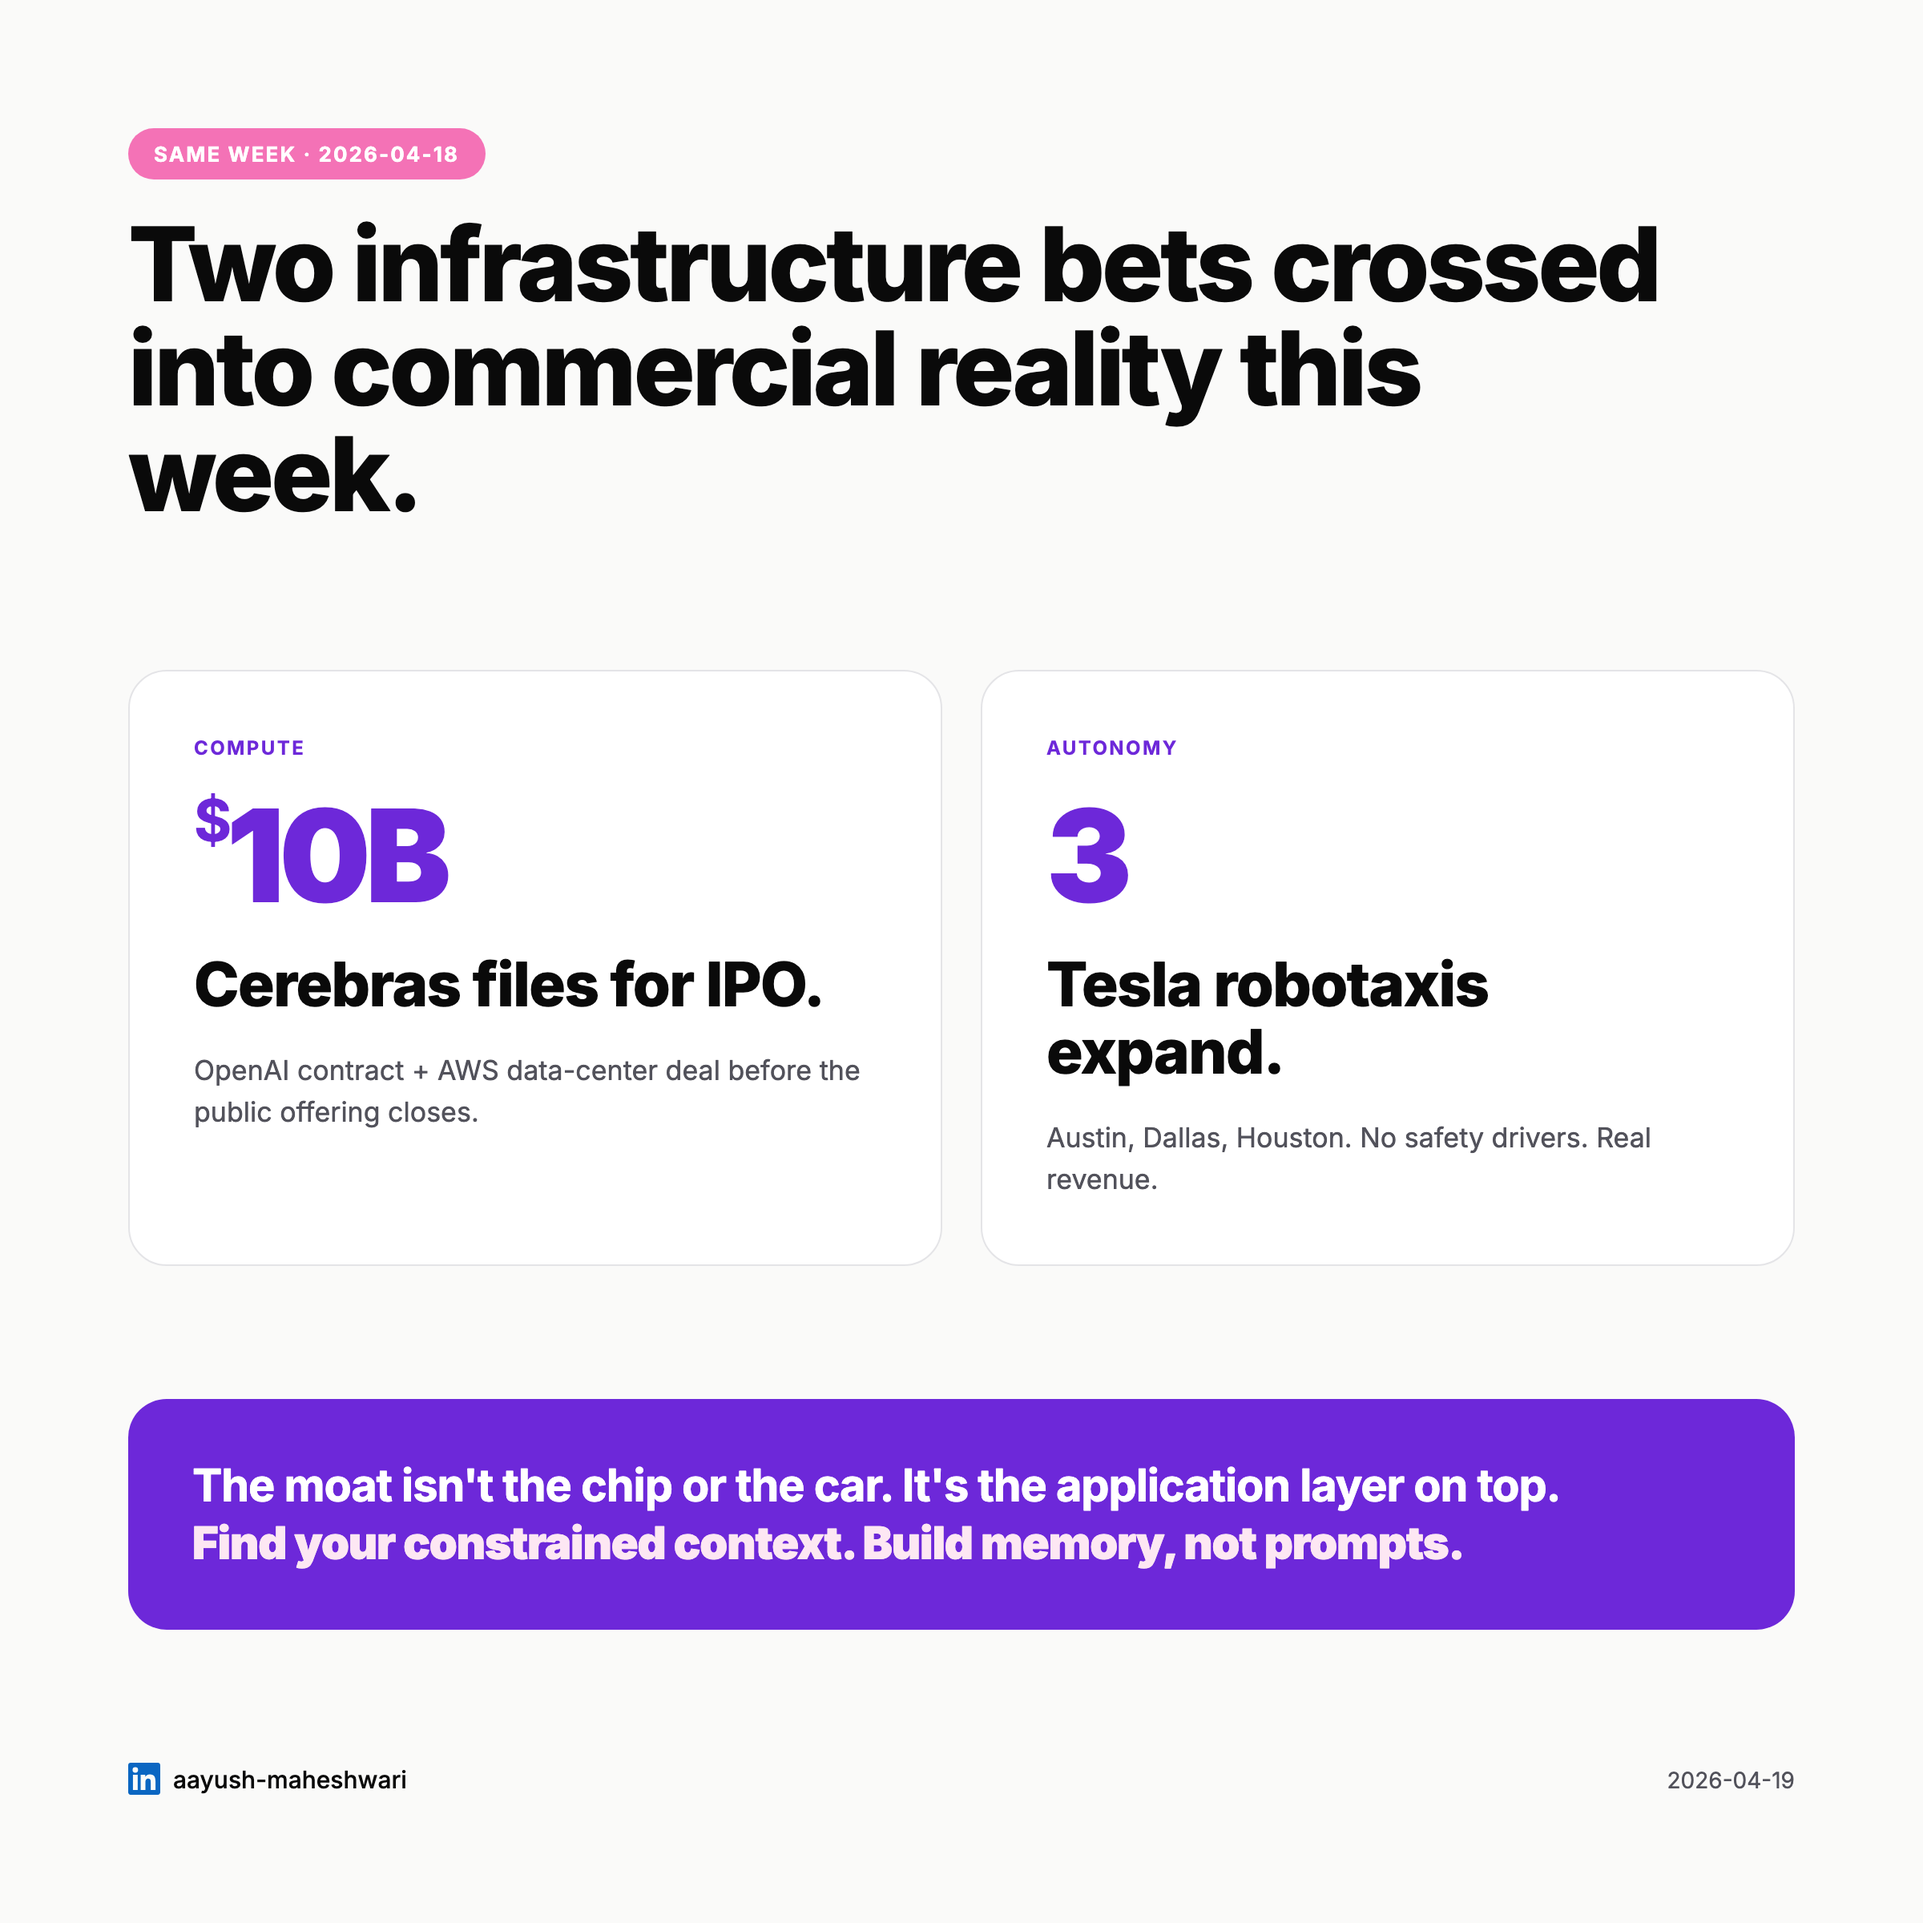
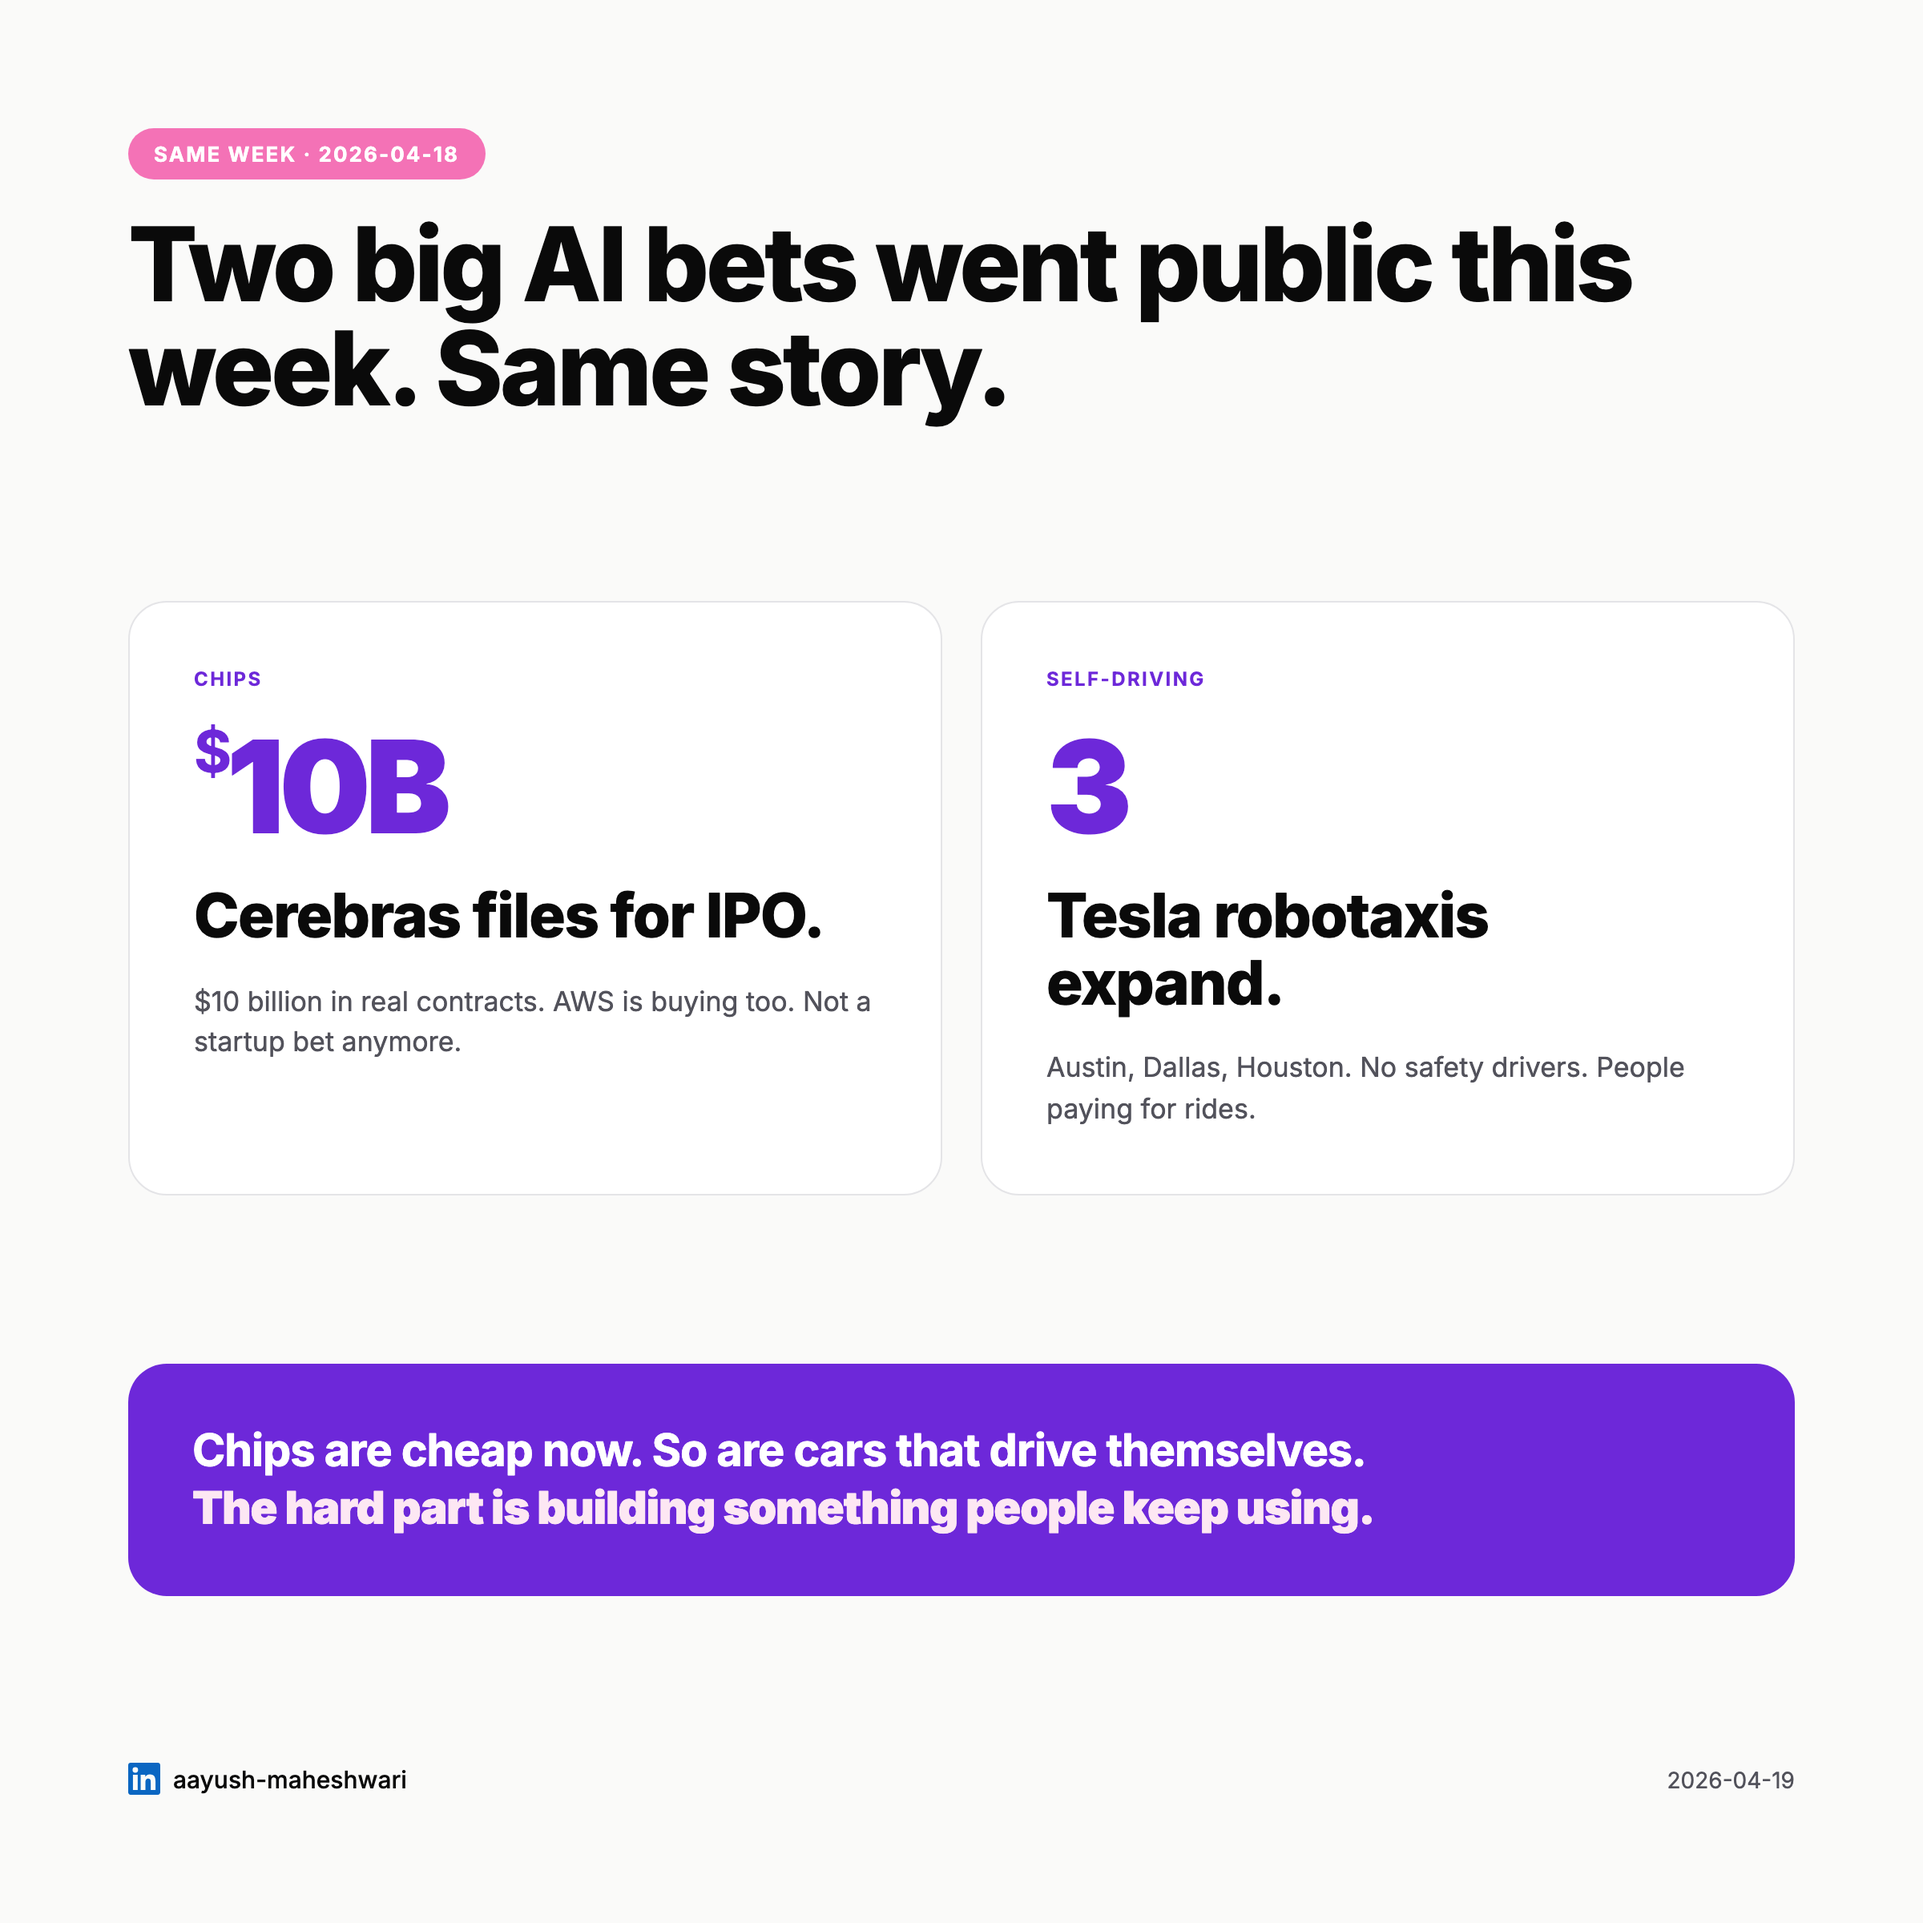
creatives: plain-English copy rewrite + wire rules into design-council
Today's 5 options still leaned on the exact MBA vocabulary we just banned in the brief (commodity, moat, application layer, commoditizes, constrained context, competitive advantage). Creatives should pass the same 5th-grade test as the brief. Rewrote all 5:

Option 1 — The Take:
  old hero: "AI isn't your competitive advantage. It's a commodity."
  new hero: "Chips are cheap now. Your product isn't."
  body: "The hard part isn't the chip. It isn't the model. It's building something people come back to. Memory. Context. The thing they actually use."

Option 2 — Same Week:
  old headline: "Two infrastructure bets crossed into commercial reality this week."
  new headline: "Two big AI bets went public this week. Same story."
  panel labels: COMPUTE/AUTONOMY → CHIPS/SELF-DRIVING
  sub-claim: "The moat isn't the chip or the car. It's the application layer on top." →
             "Chips are cheap now. So are cars that drive themselves. The hard part is building something people keep using."

Option 3 — The Shift:
  headline: "When the layer below you commoditizes, the moat moves up." →
            "When the thing below you gets cheap, the real work moves up."
  layer titles rewritten: "Compute" → "Anyone can buy them now"; "Models" → "Opus 4.7 shipped in weeks"; "Autonomy in constrained contexts" → "Works in small, named places"
  moat label: "where the moat lives now" → "where the real work is now"
[…]

diff --git a/creatives/2026-04-19/option-3-the-stack.html b/creatives/2026-04-19/option-3-the-stack.html
@@ -79,35 +79,35 @@
 </style>
 </head>
 <body>
-  <span class="chip">The stack · 2026</span>
-  <h1>When the layer below you commoditizes, the moat moves up.</h1>
+  <span class="chip">The shift · 2026</span>
+  <h1>When the thing below you gets cheap, the real work moves up.</h1>
   <div class="stack">
     <div class="layer commodity">
       <div class="layer-left">
-        <span class="layer-label">Layer 1</span>
-        <span class="layer-title">Compute</span>
+        <span class="layer-label">Chips</span>
+        <span class="layer-title">Anyone can buy them now</span>
       </div>
-      <span class="layer-tag">Commodity · Cerebras IPO</span>
+      <span class="layer-tag">Cerebras IPO</span>
     </div>
     <div class="layer commodity">
       <div class="layer-left">
-        <span class="layer-label">Layer 2</span>
-        <span class="layer-title">Models</span>
+        <span class="layer-label">Models</span>
+        <span class="layer-title">Opus 4.7 shipped in weeks</span>
       </div>
-      <span class="layer-tag">Commodity · Opus 4.7 in weeks</span>
+      <span class="layer-tag">Generic now</span>
     </div>
     <div class="layer commodity">
       <div class="layer-left">
-        <span class="layer-label">Layer 3</span>
-        <span class="layer-title">Autonomy in constrained contexts</span>
+        <span class="layer-label">Self-driving</span>
+        <span class="layer-title">Works in small, named places</span>
       </div>
-      <span class="layer-tag">Commodity · Tesla in 3 cities</span>
+      <span class="layer-tag">Tesla in 3 cities</span>
     </div>
     <div class="layer moat">
       <div>
-        <span class="layer-label">Layer 4 · where the moat lives now</span>
-        <div class="layer-title">Memory · Context · Application layer</div>
-        <p class="moat-detail">Most AI products fail because they skip memory, not because of the model.</p>
+        <span class="layer-label">Where the real work is now</span>
+        <div class="layer-title">Memory · Context · Product</div>
+        <p class="moat-detail">Most AI products fail because they forget. Not because the model is weak.</p>
       </div>
     </div>
   </div>

diff --git a/creatives/2026-04-19/option-2-same-week.html b/creatives/2026-04-19/option-2-same-week.html
@@ -75,25 +75,25 @@
 <body>
   <header>
     <span class="chip">Same week · 2026-04-18</span>
-    <h1>Two infrastructure bets crossed into commercial reality this week.</h1>
+    <h1>Two big AI bets went public this week. Same story.</h1>
   </header>
   <div class="panels">
     <div class="panel">
-      <div class="panel-label">Compute</div>
+      <div class="panel-label">Chips</div>
       <div class="panel-number"><small>$</small>10B</div>
       <div class="panel-headline">Cerebras files for IPO.</div>
-      <p class="panel-detail">OpenAI contract + AWS data-center deal before the public offering closes.</p>
+      <p class="panel-detail">$10 billion in real contracts. AWS is buying too. Not a startup bet anymore.</p>
     </div>
     <div class="panel">
-      <div class="panel-label">Autonomy</div>
+      <div class="panel-label">Self-driving</div>
       <div class="panel-number">3</div>
       <div class="panel-headline">Tesla robotaxis expand.</div>
-      <p class="panel-detail">Austin, Dallas, Houston. No safety drivers. Real revenue.</p>
+      <p class="panel-detail">Austin, Dallas, Houston. No safety drivers. People paying for rides.</p>
     </div>
   </div>
   <div class="sub-claim">
-    The moat isn't the chip or the car. It's the application layer on top.
-    <br><strong>Find your constrained context. Build memory, not prompts.</strong>
+    Chips are cheap now. So are cars that drive themselves.
+    <br><strong>The hard part is building something people keep using.</strong>
   </div>
   <div class="footer">
     <span class="handle">

diff --git a/creatives/2026-04-19/option-5-find-your-texas.html b/creatives/2026-04-19/option-5-find-your-texas.html
@@ -69,11 +69,11 @@
 </head>
 <body>
   <div>
-    <span class="chip">Apr 19 · on constraint</span>
-    <p class="prelude">Tesla didn't launch robotaxis everywhere. They picked Texas. Austin, then Dallas, then Houston. Three cities, similar regulations, real revenue.</p>
+    <span class="chip">Apr 19 · the lesson</span>
+    <p class="prelude">Tesla didn't launch robotaxis everywhere. They picked Texas. Austin first, then Dallas, then Houston. Three cities. Same rules. People paying.</p>
     <div class="quote-mark">"</div>
-    <h1 class="pull">Smart <em>constraint</em> beats perfect general solution.</h1>
-    <p class="attribution">Find your Texas. The constrained context where your AI use case actually works today. Scale from there.</p>
+    <h1 class="pull">Three <em>cities</em> beats everywhere.</h1>
+    <p class="attribution">Find your Texas. One small place where your AI actually works today. Win there first. Then grow.</p>
   </div>
   <div class="footer">
     <span class="handle">

diff --git a/creatives/2026-04-19/option-1-the-commodity.html b/creatives/2026-04-19/option-1-the-commodity.html
@@ -60,10 +60,10 @@
 </head>
 <body>
   <div>
-    <span class="chip">Apr 19 · thesis</span>
-    <p class="setup">Cerebras filed for IPO with a $10B OpenAI deal. Tesla scaled robotaxis to three Texas cities. Same week.</p>
-    <h1 class="claim">AI isn't your competitive advantage. It's a <span class="hero">commodity.</span></h1>
-    <p class="proof">The moat isn't the model. It isn't the compute. It's what you build on top. Memory. Context. Application layer.</p>
+    <span class="chip">Apr 19 · the take</span>
+    <p class="setup">Cerebras just sold chips to OpenAI for $10 billion. Tesla robotaxis now run in three Texas cities. Same week.</p>
+    <h1 class="claim">Chips are cheap now. <span class="hero">Your product isn't.</span></h1>
+    <p class="proof">The hard part isn't the chip. It isn't the model. It's building something people come back to. Memory. Context. The thing they actually use.</p>
   </div>
   <div class="footer">
     <span class="handle">

diff --git a/creatives/2026-04-19/option-4-one-word.html b/creatives/2026-04-19/option-4-one-word.html
@@ -68,11 +68,11 @@
 <body>
   <div class="top">
     <span class="chip">Apr 19 · one word</span>
-    <p class="prelude">Cerebras IPO. Tesla robotaxis. Same week. A thesis in a single word:</p>
-    <h1 class="word">commodity.</h1>
+    <p class="prelude">Cerebras IPO. Tesla robotaxis. Same week. One word for where AI is now:</p>
+    <h1 class="word">generic.</h1>
   </div>
   <div class="bottom">
-    <p class="punchline">AI is not your competitive advantage anymore. The moat moved. <strong>It lives in memory, context, and the application layer.</strong></p>
+    <p class="punchline">Having AI doesn't make your product special anymore. <strong>What does: the thing you build on top. Memory. Context. Something people come back to.</strong></p>
     <div class="footer">
       <span class="handle">
         <svg class="li-icon" width="20" height="20" viewBox="0 0 24 24" fill="#0a66c2" xmlns="http://www.w3.org/2000/svg">

diff --git a/.claude/skills/design-council/SKILL.md b/.claude/skills/design-council/SKILL.md
@@ -8,6 +8,15 @@ This skill is adapted from Atlan's Marketing OS design-council (`atlanhq/atlan-m
 - **7-dimension design review.** Hierarchy, Contrast, Flow, Layout, Clear Space, CTA, Scroll-Stop.
 - **Human-paced pauses.** Never auto-advance. Human can kill, combine, redirect, restart.
 - **Quality tests.** Logo-swap, 3-second, thumbnail.
+- **Color theory.** Structured 5-color palettes (moods), 60-30-10 rule. See `references/color-theory.md`.
+- **Plain-English copy.** Every word on the creative reads at 5th-grade level. No MBA vocabulary. See `.claude/skills/write-briefing/references/plain-english-rules.md`.
+
+## Before writing ANY copy — mandatory reads
+
+1. `.claude/skills/write-briefing/references/plain-english-rules.md` — 7 hard language rules. Apply to every chip, headline, body line, footer. No exceptions. If a word is on the banned list (commodity, moat, stack, differentiation, application layer, etc.), pick a concrete replacement.
+2. `.claude/skills/design-council/references/color-theory.md` — pick mood based on post archetype.
+
+The copy on the creative is held to the SAME plain-English bar as the brief and the LinkedIn posts. A creative with "commoditization" on it is REVISE, no matter how pretty it looks.
 
 Skipped (relative to Atlan's): full Discover phase, state management JSON, Figma handoff, Imagen production generation. The personal LinkedIn use case is one-shot, fast, doesn't need designer handoff.
 
